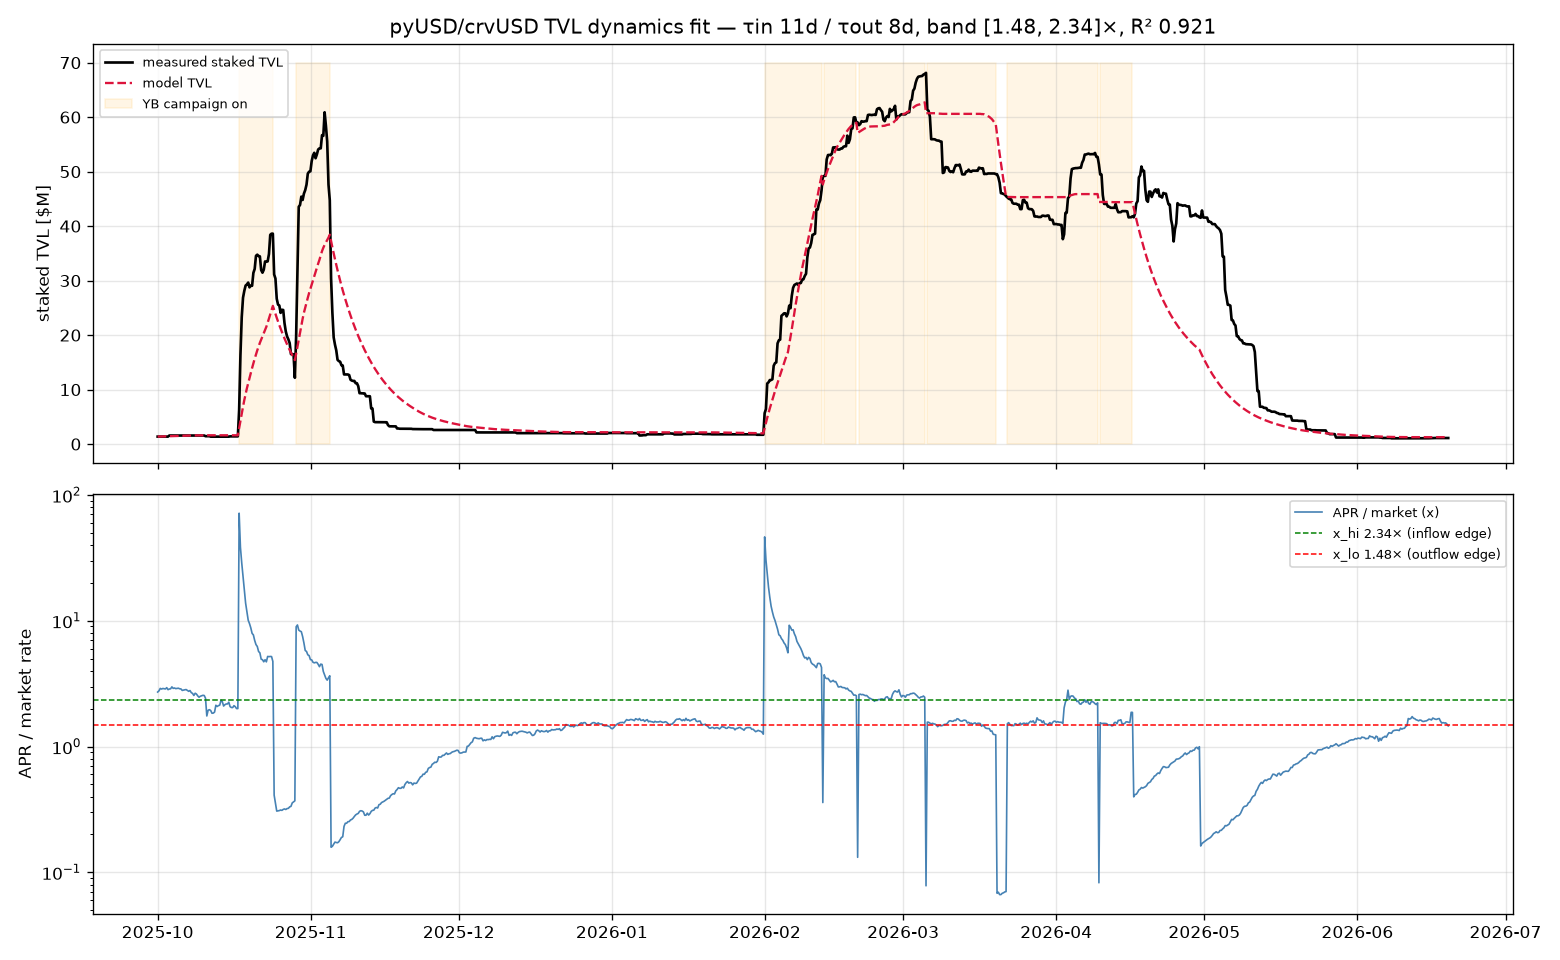
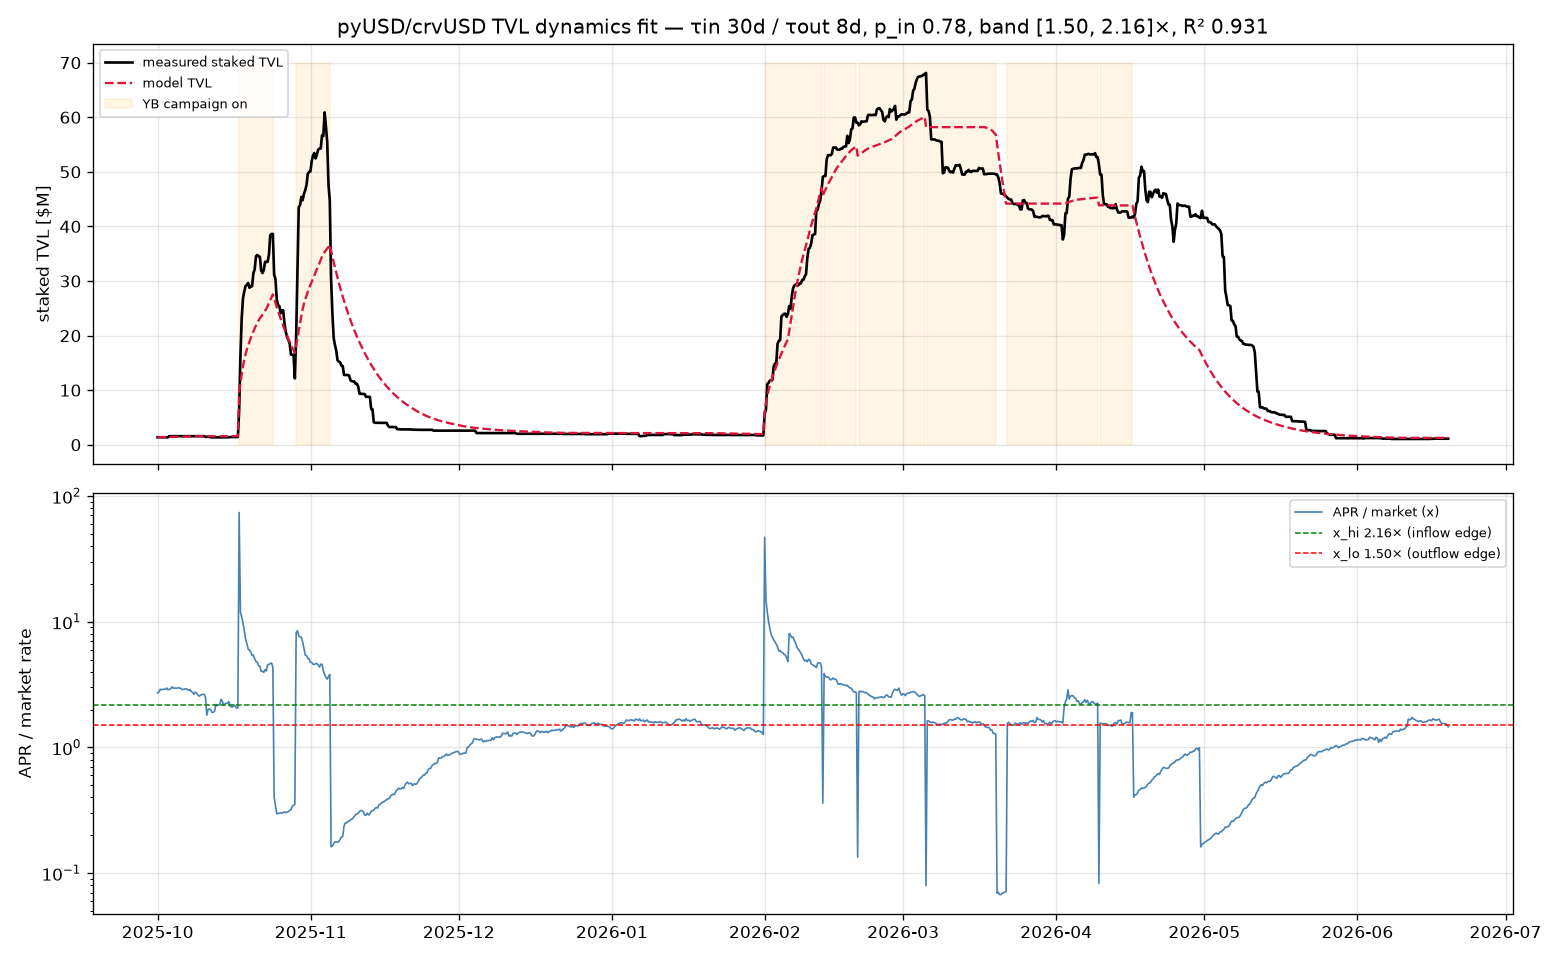
Add tiny-pool inflow rush to TVL dynamics fit
A tiny pool has a huge endogenous APR (rewards/L) that should pull capital in
faster than a near-full one, but the plain fixed-tau exponential can't express
that and lagged the steep take-offs by ~7% (model/measured 0.93 on >5%/day
ramps). Adds an inflow-acceleration factor (x/x_hi)^p_in so the fill speed
scales with how far APR sits above the threshold (p_in=0 recovers the old
model). Refit: p_in=0.78, R^2 0.921->0.931, ramp lag gone (model/measured
0.93->1.01). Base tau_in now rails high (>=30d) -- inflow is dominated by the
rush regime, so effective fill time depends on attractiveness, not a constant.

diff --git a/rates/fit_pool_dynamics.py b/rates/fit_pool_dynamics.py
@@ -76,7 +76,7 @@ def load_series():
     return dict(t=t, L=L, fee=fee, crv_val=crv_val, yb_val=yb_val, m=m, yb_on=yb_on)
 
 
-def simulate(S, tau_in_d, tau_out_d, x_lo, x_hi):
+def simulate(S, tau_in_d, tau_out_d, x_lo, x_hi, p_in=0.0):
     t, fee, crv_val, yb_val, m = S["t"], S["fee"], S["crv_val"], S["yb_val"], S["m"]
     tau_in, tau_out = tau_in_d / 365.0, tau_out_d / 365.0
     n = t.size
@@ -93,7 +93,10 @@ def simulate(S, tau_in_d, tau_out_d, x_lo, x_hi):
         if x > x_hi:
             denom = x_hi * m[k] - fee[k]
             Lt = rewards / denom if denom > 1e-6 else Lk * 4
-            Lk = Lk + (Lt - Lk) * (dt / tau_in)
+            # rush: inflow accelerates the further APR is above threshold (tiny-pool
+            # appeal). p_in=0 -> plain exponential. Cap the step at the full gap.
+            frac = (dt / tau_in) * (x / x_hi) ** p_in
+            Lk = Lk + (Lt - Lk) * min(frac, 1.0)
         elif x < x_lo:
             denom = x_lo * m[k] - fee[k]
             Lt = rewards / denom if denom > 1e-6 else Lk * 0.25
@@ -111,19 +114,24 @@ def loss(S, params):
 
 
 def fit(S, seed=0, band=None):
-    """band=(x_lo, x_hi) fixes the dead-band; None fits all four parameters."""
+    """Fit [tau_in, tau_out, x_lo, x_hi, p_in]. band=(x_lo,x_hi) fixes the
+    dead-band. p_in is the inflow-acceleration exponent (0 = plain exponential)."""
     from scipy.optimize import differential_evolution
-    if band is None:
-        bounds = [(1.0, 30.0), (1.0, 30.0), (0.7, 1.5), (1.5, 3.0)]
-        res = differential_evolution(lambda p: loss(S, p), bounds, seed=seed,
-                                     maxiter=60, tol=1e-5, polish=True, updating="deferred")
-        return res.x, res.fun
-    xlo, xhi = band
-    bounds = [(1.0, 30.0), (1.0, 30.0)]
-    res = differential_evolution(lambda p: loss(S, [p[0], p[1], xlo, xhi]),
-                                 bounds, seed=seed, maxiter=60, tol=1e-5,
-                                 polish=True, updating="deferred")
-    return np.array([res.x[0], res.x[1], xlo, xhi]), res.fun
+    full = {"tin": (1.0, 30.0), "tout": (1.0, 30.0), "xlo": (0.7, 1.5),
+            "xhi": (1.5, 3.0), "p": (0.0, 4.0)}
+    free = ["tin", "tout"] + ([] if band else ["xlo", "xhi"]) + ["p"]
+    bounds = [full[k] for k in free]
+
+    def build(pp):
+        v = {"tin": None, "tout": None, "xlo": band[0] if band else None,
+             "xhi": band[1] if band else None, "p": 0.0}
+        for k, val in zip(free, pp):
+            v[k] = val
+        return [v["tin"], v["tout"], v["xlo"], v["xhi"], v["p"]]
+
+    res = differential_evolution(lambda pp: loss(S, build(pp)), bounds, seed=seed,
+                                 maxiter=60, tol=1e-5, polish=True, updating="deferred")
+    return np.array(build(res.x)), res.fun
 
 
 def main():
@@ -137,7 +145,7 @@ def main():
     S = load_series()
     band = (args.x_lo, args.x_hi) if (args.x_lo and args.x_hi) else None
     params, J = fit(S, band=band)
-    tin, tout, xlo, xhi = params
+    tin, tout, xlo, xhi, p_in = params
     L, a = simulate(S, *params)
     # R^2 in log space
     e = np.log(L) - np.log(S["L"])
@@ -145,6 +153,7 @@ def main():
     print(f"fit (log-RMSE {np.sqrt(J):.3f}, R^2 {r2:.3f}):")
     print(f"  tau_in        = {tin:.1f} d")
     print(f"  tau_out       = {tout:.1f} d")
+    print(f"  p_in (rush)   = {p_in:.2f}   (0 = plain exponential)")
     print(f"  dead band     = [{xlo:.2f}×, {xhi:.2f}×] market"
           + ("  (fixed)" if band else ""))
 
@@ -158,8 +167,8 @@ def main():
     axL.fill_between(tt, 0, 70, where=S["yb_on"], color="orange", alpha=0.10,
                      label="YB campaign on")
     axL.set_ylabel("staked TVL [$M]")
-    axL.set_title(f"pyUSD/crvUSD TVL dynamics fit — "
-                  f"τin {tin:.0f}d / τout {tout:.0f}d, band [{xlo:.2f}, {xhi:.2f}]×, R² {r2:.3f}")
+    axL.set_title(f"pyUSD/crvUSD TVL dynamics fit — τin {tin:.0f}d / τout {tout:.0f}d, "
+                  f"p_in {p_in:.2f}, band [{xlo:.2f}, {xhi:.2f}]×, R² {r2:.3f}")
     axL.legend(loc="upper left", fontsize=8); axL.grid(alpha=0.3)
 
     axA.plot(tt, a / S["m"], lw=1.0, color="steelblue", label="APR / market (x)")

diff --git a/rates/REPORT_pool_dynamics.md b/rates/REPORT_pool_dynamics.md
@@ -18,10 +18,18 @@ rewards(t)   = CRV_value(t) + YB_value(t)                 [$/yr]
 APR a(t,L)   = fee_apr(t) + rewards / L
 x            = a / m(t)            m = sUSDS market rate
 dead band [x_lo, x_hi]:
-    x > x_hi : inflow   toward L*_in  = rewards/(x_hi·m − fee),  rate 1/τ_in
+    x > x_hi : inflow   toward L*_in  = rewards/(x_hi·m − fee),  rate (1/τ_in)·(x/x_hi)^p_in
     x < x_lo : outflow  toward L*_out = rewards/(x_lo·m − fee),  rate 1/τ_out
     else     : hold (LPs inert inside the band)
 ```
+
+**Tiny-pool rush (`p_in`).** A pool starting tiny has a huge APR (`rewards/L`), which
+should pull capital in *faster* than a near-full pool — not just by a larger gap to
+`L*`, but because the offer is far more attractive. The plain exponential (fixed
+`1/τ_in`) can't express that: at the steepest take-offs the model lagged measured TVL
+by ~7% (`model/measured ≈ 0.93` when TVL ramps >5%/day). The factor `(x/x_hi)^p_in`
+accelerates inflow the further APR sits above the threshold (`p_in=0` recovers the
+plain model); with it the lag vanishes (`model/measured ≈ 1.01`).
 
 `CRV_value = crv_rate · gauge_rel_weight · CRV_price · yr` and
 `YB_value = yb_rate · YB_price · yr` (gated to `timestamp < period_finish`), both
@@ -43,19 +51,24 @@ Optimised against log-TVL (one ODE, whole series):
 
 | quantity | value |
 |----------|-------|
-| **τ_in** (inflow) | **10.7 d** |
-| **τ_out** (outflow) | **8.0 d** |
-| **dead band** (equilibrium) | **[1.48×, 2.34×] market** |
-| R² (log-TVL) | 0.92 |
+| **τ_in** (base inflow) | **30 d** (rail; see note) |
+| **τ_out** (outflow) | **8.2 d** |
+| **p_in** (tiny-pool rush) | **0.78** |
+| **dead band** (equilibrium) | **[1.50×, 2.16×] market** |
+| R² (log-TVL) | **0.931** (vs 0.921 without the rush) |
 
 * **Equilibrium rate:** capital flows until the (endogenous) APR is driven down to
-  the top edge (~2.3× sUSDS) and bleeds out until it climbs to the bottom edge
+  the top edge (~2.2× sUSDS) and bleeds out until it climbs to the bottom edge
   (~1.5×) — so the equilibrium LP APR sits inside that band, anchored to the market
-  rate. (The unified fit's band runs a bit higher than the earlier instantaneous
-  estimate `[1×, 1.9×]`; here the edges also set the absolute TVL levels via
-  `L* = rewards/(x·m − fee)`, so they do double duty.)
-* **Reaction times** match the campaign-relaxation fits (τ_in ~9–11 d, τ_out a bit
-  slower here at 8 d vs the 4–5 d instantaneous estimate).
+  rate. (The edges also set the absolute TVL levels via `L* = rewards/(x·m − fee)`,
+  so they do double duty.)
+* **Reaction times:** τ_out ≈ 8 d (outflow). With the rush term the *base* τ_in
+  rails high (≥30 d) — i.e. inflow near equilibrium is slow, and almost all the
+  observed filling happens in the **rush regime**, where the effective inflow time
+  is `τ_in·(x_hi/x)^p_in` (e.g. ~5 d when APR is 10× the threshold). So "how fast
+  LPs arrive" is dominated by *how attractive* the pool is, not a single constant.
+* The earlier per-campaign fits (τ_in ~9–11 d) measured an effective inflow during
+  high-APR campaigns — consistent with the rush regime here, not the slow base τ_in.
 
 ## Incentive accounting — two things that look missing but aren't
 